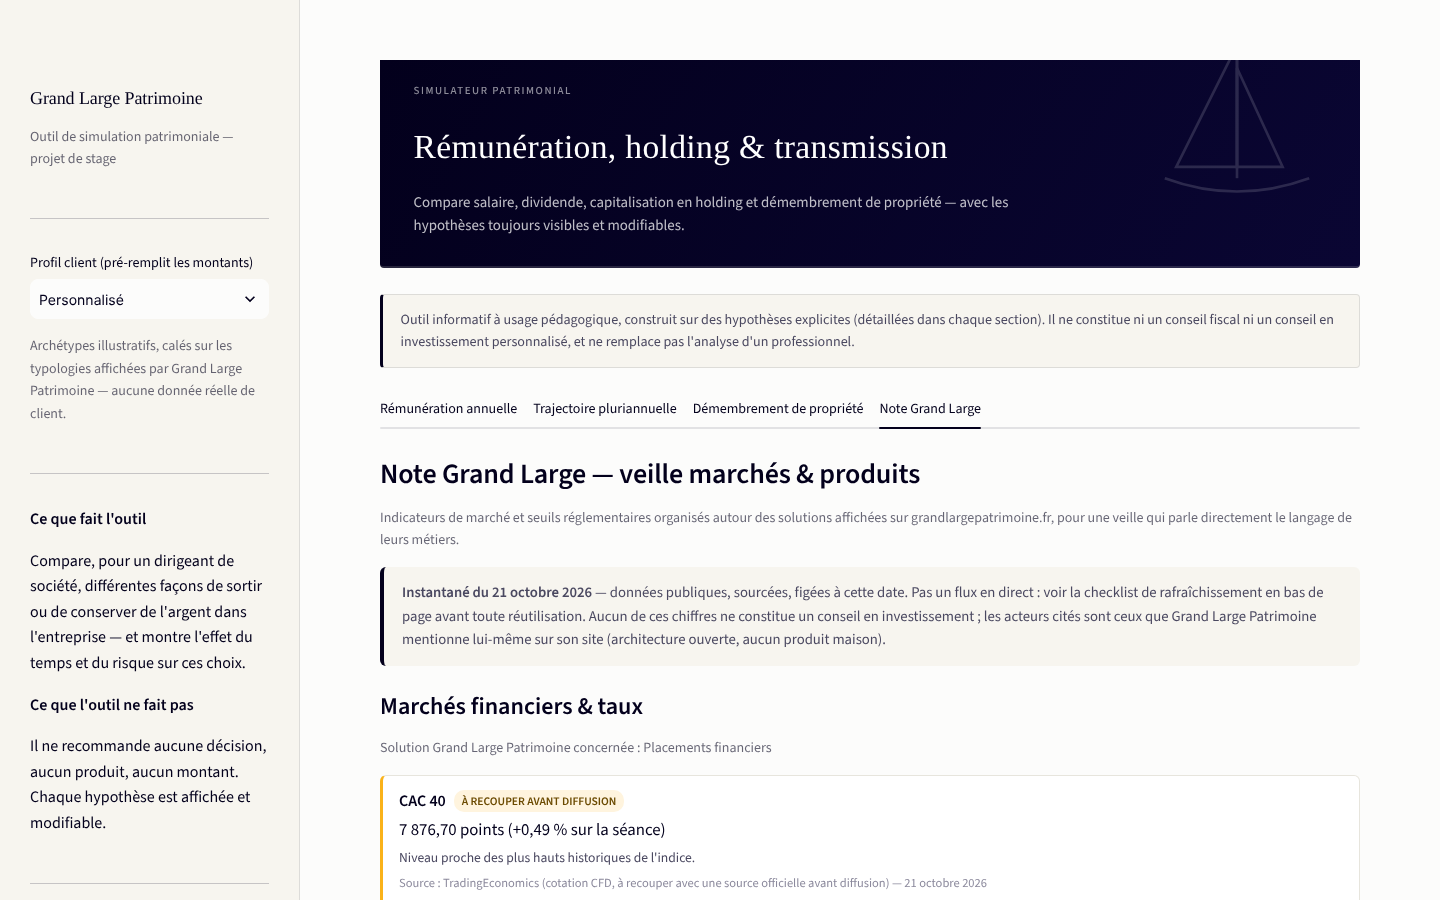
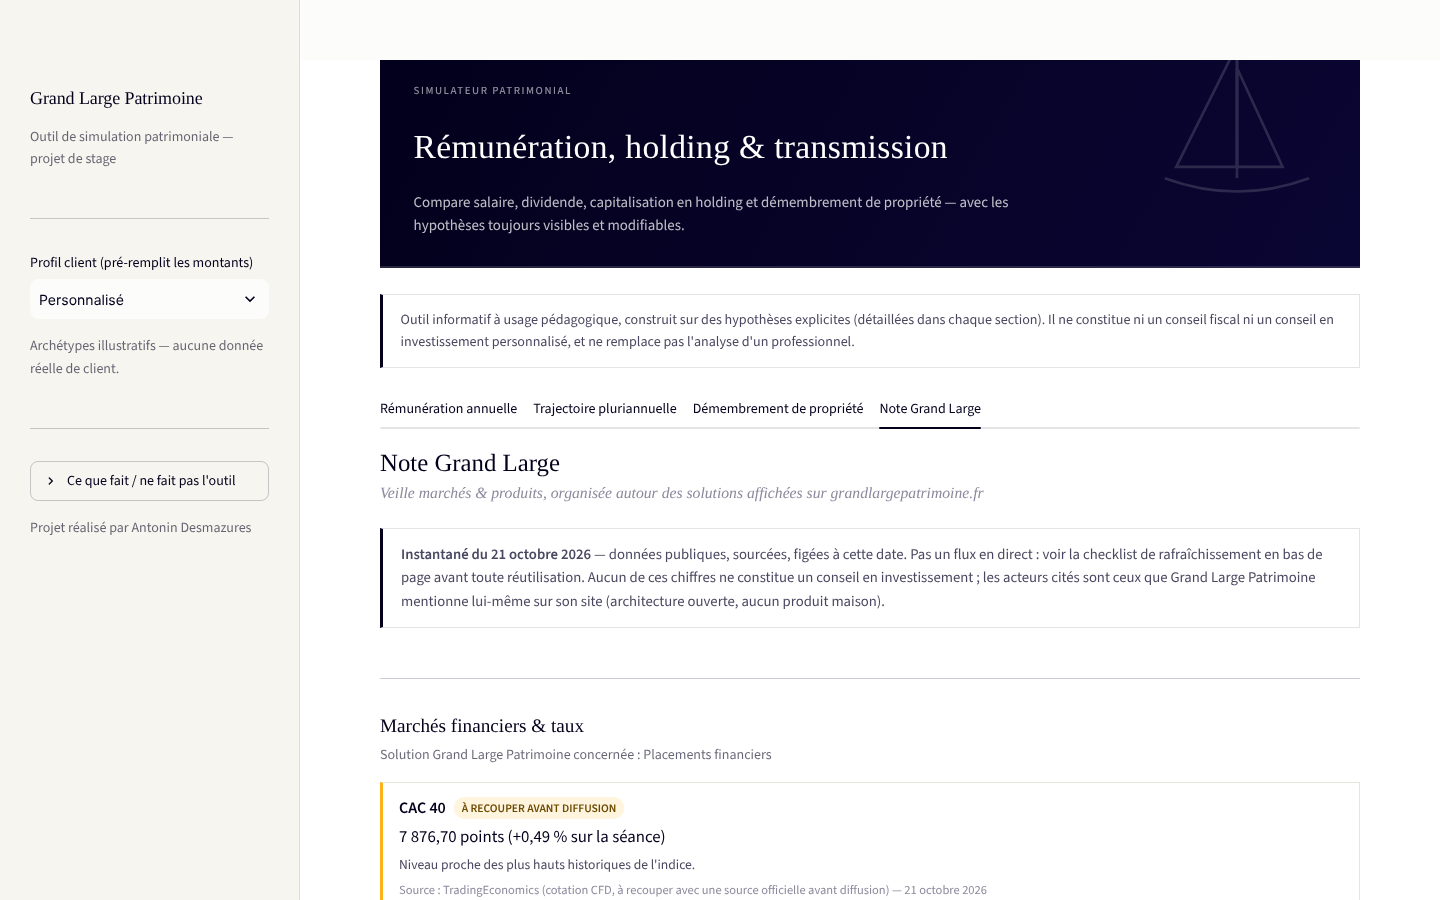
Refonte visuelle fidèle à la charte graphique réelle de Grand Large Patrimoine
Après inspection directe du site (grandlargepatrimoine.fr) via navigateur :
fond blanc pur (plus de crème), coins nets partout (plus de border-radius),
en-têtes de section à deux niveaux (titre serif + sous-titre serif italique),
motif « liste numérotée + filet fin » repris de « La Méthode Grand Large »
appliqué à la checklist de rafraîchissement, grille de tuiles bordées
reprenant le gabarit « Nos solutions » pour l'univers de partenaires.
Sidebar simplifiée (bloc « ce que fait / ne fait pas l'outil » replié dans
un expander) pour réduire le bruit visuel. Captures d'écran du README
régénérées.

Claude-Session: https://claude.ai/code/session_013d8botr14ACMNDxZSsXeTk

diff --git a/app.py b/app.py
@@ -82,9 +82,11 @@ st.markdown(
 
     .block-container {{ padding-top: 2rem; max-width: 1150px; }}
 
+    .stApp {{ background: #ffffff; }}
+
     .bandeau {{
         background: linear-gradient(120deg, {NAVY} 0%, {NAVY_HOVER} 100%);
-        border-radius: 4px;
+        border-radius: 0;
         padding: 2.1rem 2.1rem 1.9rem;
         margin-bottom: 1.6rem;
         color: #ffffff;
@@ -124,20 +126,83 @@ st.markdown(
     }}
 
     .bloc-disclaimer {{
-        background: {CREME};
+        background: #ffffff;
         border: 1px solid {BORDURE};
         border-left: 3px solid {NAVY};
-        border-radius: 4px;
+        border-radius: 0;
         padding: 0.85rem 1.1rem;
         color: {ENCRE_SECONDAIRE};
         font-size: 0.88rem;
         margin-bottom: 1.3rem;
     }}
 
-    .carte-kpi {{
-        background: {SURFACE_CARTE};
+    .entete-section {{
+        margin: 0.2rem 0 1.4rem 0;
+    }}
+    .entete-section .titre {{
+        font-family: 'Libre Caslon Display', serif;
+        font-weight: 400;
+        font-size: 1.55rem;
+        color: {NAVY};
+        margin: 0 0 0.15rem 0;
+        line-height: 1.2;
+    }}
+    .entete-section .sous-titre {{
+        font-family: 'Libre Caslon Display', serif;
+        font-weight: 400;
+        font-size: 0.98rem;
+        color: {ENCRE_MUTED};
+        margin: 0;
+        font-style: italic;
+    }}
+
+    .filet {{
+        border: none;
+        border-top: 1px solid {BORDURE};
+        margin: 1.1rem 0;
+    }}
+
+    .etape-numerotee {{
+        display: flex;
+        align-items: baseline;
+        gap: 0.9rem;
+        padding: 0.75rem 0;
+        border-bottom: 1px solid {BORDURE};
+    }}
+    .etape-numerotee:last-child {{ border-bottom: none; }}
+    .etape-numerotee .numero {{
+        font-family: 'Libre Caslon Display', serif;
+        color: {NAVY};
+        font-size: 0.95rem;
+        font-weight: 400;
+        min-width: 1.6rem;
+    }}
+    .etape-numerotee .texte {{
+        color: {ENCRE_SECONDAIRE};
+        font-size: 0.88rem;
+        line-height: 1.5;
+    }}
+
+    .tuile {{
+        background: #ffffff;
         border: 1px solid {BORDURE};
-        border-radius: 4px;
+        border-radius: 0;
+        padding: 1rem 1.2rem;
+        height: 100%;
+    }}
+    .tuile .tuile-titre {{
+        font-weight: 600;
+        font-size: 0.86rem;
+        color: {NAVY};
+        margin-bottom: 0.4rem;
+        text-transform: uppercase;
+        letter-spacing: 0.03em;
+    }}
+
+    .carte-kpi {{
+        background: #ffffff;
+        border: 1px solid {BORDURE};
+        border-radius: 0;
         padding: 1.1rem 1.3rem;
         height: 100%;
         transition: transform 0.15s ease, box-shadow 0.15s ease, border-color 0.15s ease;
@@ -191,7 +256,7 @@ st.markdown(
     .stTabs [data-baseweb="tab-highlight"] {{ background-color: {NAVY} !important; }}
 
     .stButton button, .stDownloadButton button {{
-        border-radius: 3px;
+        border-radius: 0;
         border-color: {NAVY};
         color: {NAVY};
     }}
@@ -226,6 +291,33 @@ def carte_kpi(label, valeur, couleur, sous_texte=""):
     )
 
 
+def entete_section(titre, sous_titre=""):
+    """En-tête à deux niveaux (gros titre serif + sous-titre serif italique),
+    repris du gabarit de titre de section du site grandlargepatrimoine.fr."""
+    st.markdown(
+        f"""
+        <div class="entete-section">
+            <div class="titre">{titre}</div>
+            <div class="sous-titre">{sous_titre}</div>
+        </div>
+        """,
+        unsafe_allow_html=True,
+    )
+
+
+def etapes_numerotees(etapes):
+    """Liste numérotée avec filets fins entre chaque étape — motif repris de
+    « La Méthode Grand Large » sur le site (01. Comprendre / 02. Structurer...)."""
+    lignes = "".join(
+        f'<div class="etape-numerotee">'
+        f'<div class="numero">{i:02d}.</div>'
+        f'<div class="texte">{texte}</div>'
+        f"</div>"
+        for i, texte in enumerate(etapes, start=1)
+    )
+    st.markdown(f"<div>{lignes}</div>", unsafe_allow_html=True)
+
+
 def _appliquer_profil_client():
     choix = st.session_state["persona_select"]
     if choix in PROFILS_CLIENT:
@@ -241,25 +333,23 @@ if "profit_input" not in st.session_state:
 with st.sidebar:
     st.markdown("### Grand Large Patrimoine")
     st.caption("Outil de simulation patrimoniale — projet de stage")
-    st.markdown("---")
+    st.markdown('<hr class="filet">', unsafe_allow_html=True)
     st.selectbox(
         "Profil client (pré-remplit les montants)",
         ["Personnalisé"] + list(PROFILS_CLIENT.keys()),
         key="persona_select",
         on_change=_appliquer_profil_client,
     )
-    st.caption("Archétypes illustratifs, calés sur les typologies affichées par Grand Large Patrimoine — aucune donnée réelle de client.")
-    st.markdown("---")
-    st.markdown(
-        "**Ce que fait l'outil**\n\n"
-        "Compare, pour un dirigeant de société, différentes façons de "
-        "sortir ou de conserver de l'argent dans l'entreprise — et montre "
-        "l'effet du temps et du risque sur ces choix.\n\n"
-        "**Ce que l'outil ne fait pas**\n\n"
-        "Il ne recommande aucune décision, aucun produit, aucun montant. "
-        "Chaque hypothèse est affichée et modifiable."
-    )
-    st.markdown("---")
+    st.caption("Archétypes illustratifs — aucune donnée réelle de client.")
+    st.markdown('<hr class="filet">', unsafe_allow_html=True)
+    with st.expander("Ce que fait / ne fait pas l'outil"):
+        st.markdown(
+            "Compare, pour un dirigeant de société, différentes façons de "
+            "sortir ou de conserver de l'argent dans l'entreprise, et "
+            "l'effet du temps et du risque sur ces choix.\n\n"
+            "**Il ne recommande aucune décision, aucun produit, aucun "
+            "montant.** Chaque hypothèse reste affichée et modifiable."
+        )
     st.caption("Projet réalisé par Antonin Desmazures")
 
 st.markdown(
@@ -311,10 +401,9 @@ def _mise_en_forme_graphique(fig, titre, y_titre):
 
 # --- Onglet 1 : comparaison simple salaire vs dividende sur une année ---
 with tab1:
-    st.subheader("Salaire vs dividende, sur une année")
-    st.caption(
-        "Hypothèse : dirigeant de SASU, assimilé salarié, part fiscale unique "
-        "(célibataire sans enfant, pas d'autre revenu). Barèmes 2026 (revenus 2025)."
+    entete_section(
+        "Salaire vs dividende, sur une année",
+        "Dirigeant de SASU, assimilé salarié, part fiscale unique — barèmes 2026 (revenus 2025)",
     )
 
     montant = st.number_input(
@@ -416,7 +505,10 @@ with tab1:
 
 # --- Onglet 2 : trajectoire pluriannuelle avec risque ---
 with tab2:
-    st.subheader("Garder l'argent en direct vs le laisser capitaliser dans une holding")
+    entete_section(
+        "Garder l'argent en direct vs le laisser capitaliser dans une holding",
+        "Simulation Monte-Carlo, fourchette P10–P90, sur plusieurs années",
+    )
 
     with st.expander("Hypothèses de ce scénario (à lire avant de tirer des conclusions)"):
         st.markdown(
@@ -527,11 +619,9 @@ with tab2:
 
 # --- Onglet 3 : démembrement de propriété ---
 with tab3:
-    st.subheader("Donation en pleine propriété vs donation de la nue-propriété")
-    st.caption(
-        "Hypothèse : donation en ligne directe (parent → enfant), abattement de "
-        "100 000 € non consommé par une donation antérieure de moins de 15 ans. "
-        "Barème de l'article 669 du CGI (source BOFiP)."
+    entete_section(
+        "Donation en pleine propriété vs donation de la nue-propriété",
+        "Ligne directe, abattement de 100 000 € disponible — barème de l'article 669 du CGI",
     )
 
     with st.expander("Comment lire ce scénario"):
@@ -642,16 +732,16 @@ with tab3:
 
 # --- Onglet 4 : veille marchés & produits, calée sur les solutions GLP ---
 with tab4:
-    st.subheader("Note Grand Large — veille marchés & produits")
-    st.caption(
-        "Indicateurs de marché et seuils réglementaires organisés autour des solutions affichées sur "
-        "grandlargepatrimoine.fr, pour une veille qui parle directement le langage de leurs métiers."
+    entete_section(
+        "Note Grand Large",
+        "Veille marchés & produits, organisée autour des solutions affichées sur grandlargepatrimoine.fr",
     )
 
     st.markdown(
         f"""
-        <div style="background:{CREME}; border-left:4px solid {NAVY}; padding:14px 18px;
-                    border-radius:6px; margin-bottom:18px; font-size:0.92rem; color:{ENCRE_SECONDAIRE};">
+        <div style="background:#ffffff; border:1px solid {BORDURE}; border-left:3px solid {NAVY};
+                    padding:14px 18px; border-radius:0; margin-bottom:18px; font-size:0.92rem;
+                    color:{ENCRE_SECONDAIRE};">
             <strong>Instantané du {DATE_MISE_A_JOUR}</strong> — données publiques, sourcées, figées à cette
             date. Pas un flux en direct : voir la checklist de rafraîchissement en bas de page avant toute
             réutilisation. Aucun de ces chiffres ne constitue un conseil en investissement ; les acteurs
@@ -665,7 +755,12 @@ with tab4:
     COULEUR_ALERTE = "#fab219"  # accent uniquement (texte en noir dessus pour le contraste) - cf. skill dataviz
 
     for section in TOUTES_SECTIONS:
-        st.markdown(f"#### {section.titre}")
+        st.markdown('<hr class="filet">', unsafe_allow_html=True)
+        st.markdown(
+            f'<div style="font-family:\'Libre Caslon Display\', serif; font-weight:400; '
+            f'font-size:1.2rem; color:{NAVY}; margin-bottom:0.1rem;">{section.titre}</div>',
+            unsafe_allow_html=True,
+        )
         st.caption(f"Solution Grand Large Patrimoine concernée : {section.solution_glp}")
 
         for ind in section.indicateurs:
@@ -686,8 +781,8 @@ with tab4:
             # au milieu d'un bloc HTML coupe le bloc pour le parseur Markdown de
             # Streamlit, et le reste s'affiche alors en texte brut échappé.
             carte_html = (
-                f'<div style="background:{SURFACE_CARTE}; border:1px solid {GRILLE}; '
-                f'border-left:3px solid {bordure}; border-radius:6px; padding:12px 16px; margin-bottom:8px;">'
+                f'<div style="background:#ffffff; border:1px solid {GRILLE}; '
+                f'border-left:3px solid {bordure}; border-radius:0; padding:12px 16px; margin-bottom:8px;">'
                 f'<div style="display:flex; align-items:center; flex-wrap:wrap;">'
                 f'<span style="font-weight:600; color:{ENCRE_PRIMAIRE};">{ind.libelle}</span>{etiquette}'
                 f'</div>'
@@ -705,7 +800,12 @@ with tab4:
 
         st.write("")
 
-    st.markdown("#### Univers de partenaires cité par Grand Large Patrimoine")
+    st.markdown('<hr class="filet">', unsafe_allow_html=True)
+    st.markdown(
+        f'<div style="font-family:\'Libre Caslon Display\', serif; font-weight:400; '
+        f'font-size:1.2rem; color:{NAVY}; margin-bottom:0.1rem;">Univers de partenaires cité par Grand Large Patrimoine</div>',
+        unsafe_allow_html=True,
+    )
     st.caption(
         "Architecture ouverte : liste de référence relevée sur grandlargepatrimoine.fr, utile pour "
         "resituer un nom entendu en réunion — pas une recommandation ni un classement."
@@ -715,10 +815,13 @@ with tab4:
     for i, (categorie, acteurs) in enumerate(categories):
         cible = col_gauche if i % 2 == 0 else col_droite
         with cible:
-            st.markdown(f"**{categorie}**")
-            st.markdown(", ".join(acteurs))
-            st.write("")
+            st.markdown(
+                f'<div class="tuile" style="margin-bottom:0.9rem;">'
+                f'<div class="tuile-titre">{categorie}</div>'
+                f'<div style="font-size:0.88rem; color:{ENCRE_SECONDAIRE};">{", ".join(acteurs)}</div>'
+                f"</div>",
+                unsafe_allow_html=True,
+            )
 
     with st.expander("Checklist de rafraîchissement — à suivre avant toute utilisation"):
-        for etape in CHECKLIST_RAFRAICHISSEMENT:
-            st.markdown(f"- {etape}")
+        etapes_numerotees(CHECKLIST_RAFRAICHISSEMENT)
